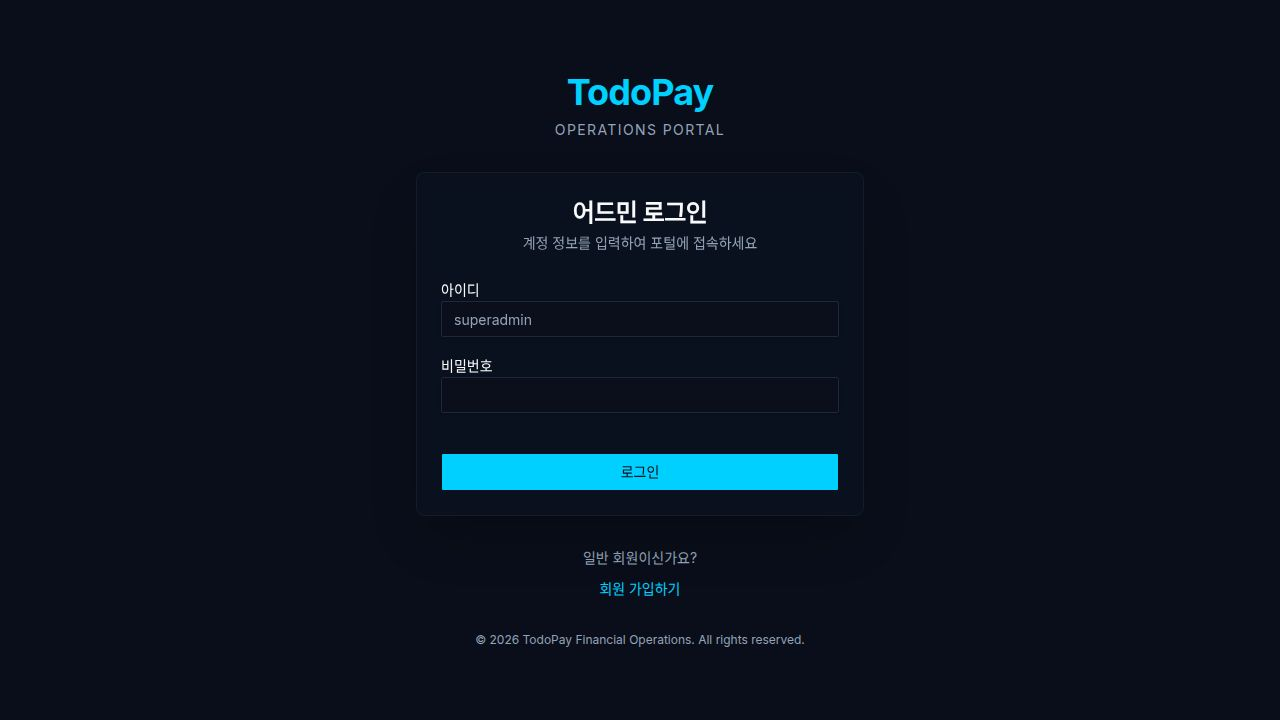
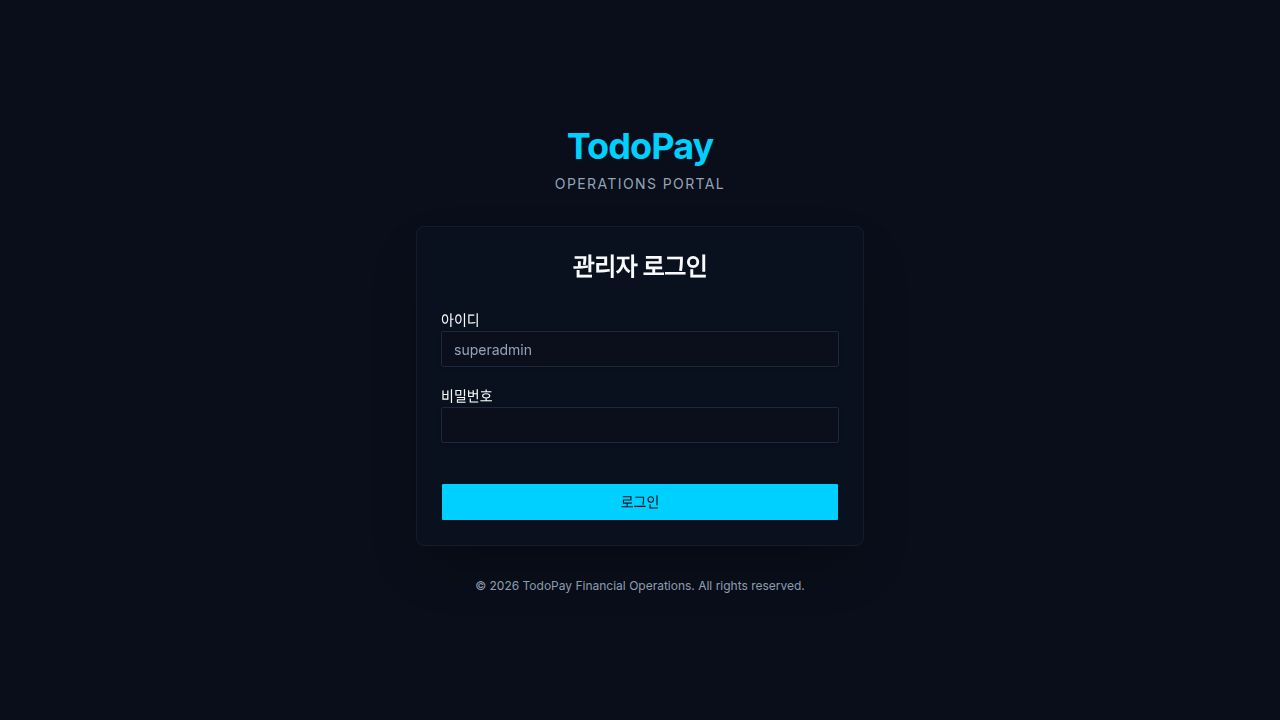
Update login page to use administrative portal terminology
Change page title from "Admin Login" to "Manager Login", remove portal access instructions, and remove member registration links.

Replit-Commit-Author: Agent
Replit-Commit-Session-Id: 00331adf-ffee-42d4-9f89-a1d9fc140fa4
Replit-Commit-Checkpoint-Type: full_checkpoint
Replit-Commit-Event-Id: 358232b9-3991-4a0c-b030-b84db4756007
Replit-Commit-Screenshot-Url: https://storage.googleapis.com/screenshot-production-us-central1/0cfc8e3d-03a0-4e9b-80b8-1ee87832a13d/00331adf-ffee-42d4-9f89-a1d9fc140fa4/5vG6R6x
Replit-Helium-Checkpoint-Created: true

diff --git a/artifacts/todopay/src/pages/login.tsx b/artifacts/todopay/src/pages/login.tsx
@@ -70,10 +70,7 @@ export default function Login() {
 
         <Card className="border-border/50 bg-card/50 backdrop-blur-sm shadow-2xl">
           <CardHeader className="space-y-1 pb-6">
-            <CardTitle className="text-2xl text-center">어드민 로그인</CardTitle>
-            <CardDescription className="text-center">
-              계정 정보를 입력하여 포털에 접속하세요
-            </CardDescription>
+            <CardTitle className="text-2xl text-center">관리자 로그인</CardTitle>
           </CardHeader>
           <CardContent>
             <form onSubmit={handleSubmit} className="space-y-4">
@@ -112,16 +109,6 @@ export default function Login() {
             </form>
           </CardContent>
         </Card>
-
-        <div className="text-center">
-          <p className="text-sm text-muted-foreground mb-2">일반 회원이신가요?</p>
-          <a
-            href="/register/member"
-            className="inline-flex items-center justify-center text-sm font-medium text-primary hover:text-primary/80 underline-offset-4 hover:underline transition-colors"
-          >
-            회원 가입하기
-          </a>
-        </div>
 
         <div className="text-center text-xs text-muted-foreground">
           &copy; {new Date().getFullYear()} TodoPay Financial Operations. All rights reserved.
